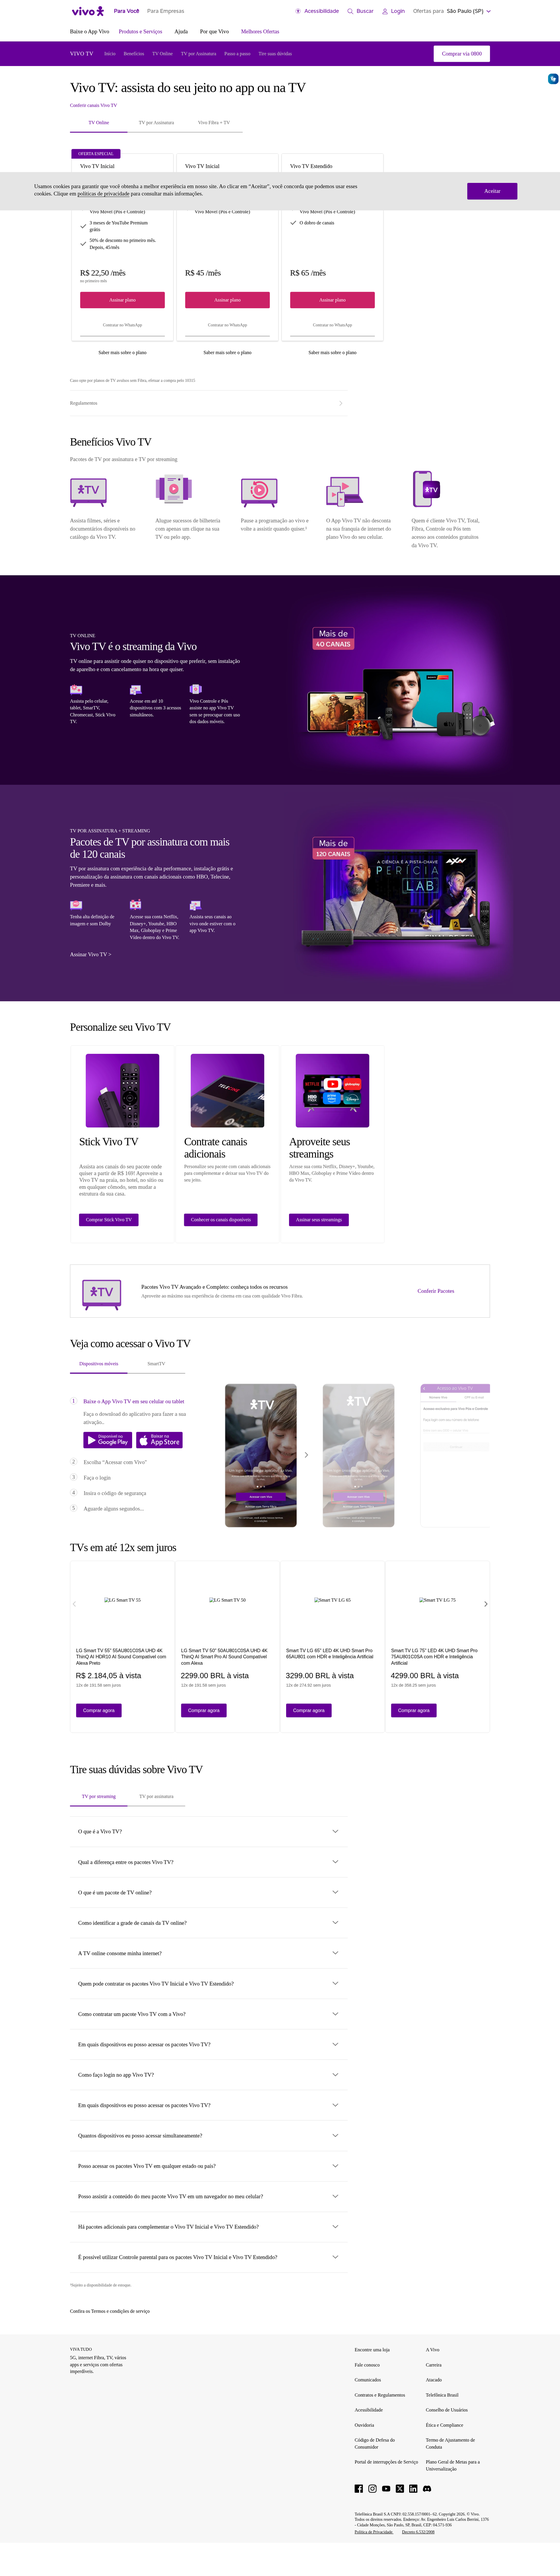
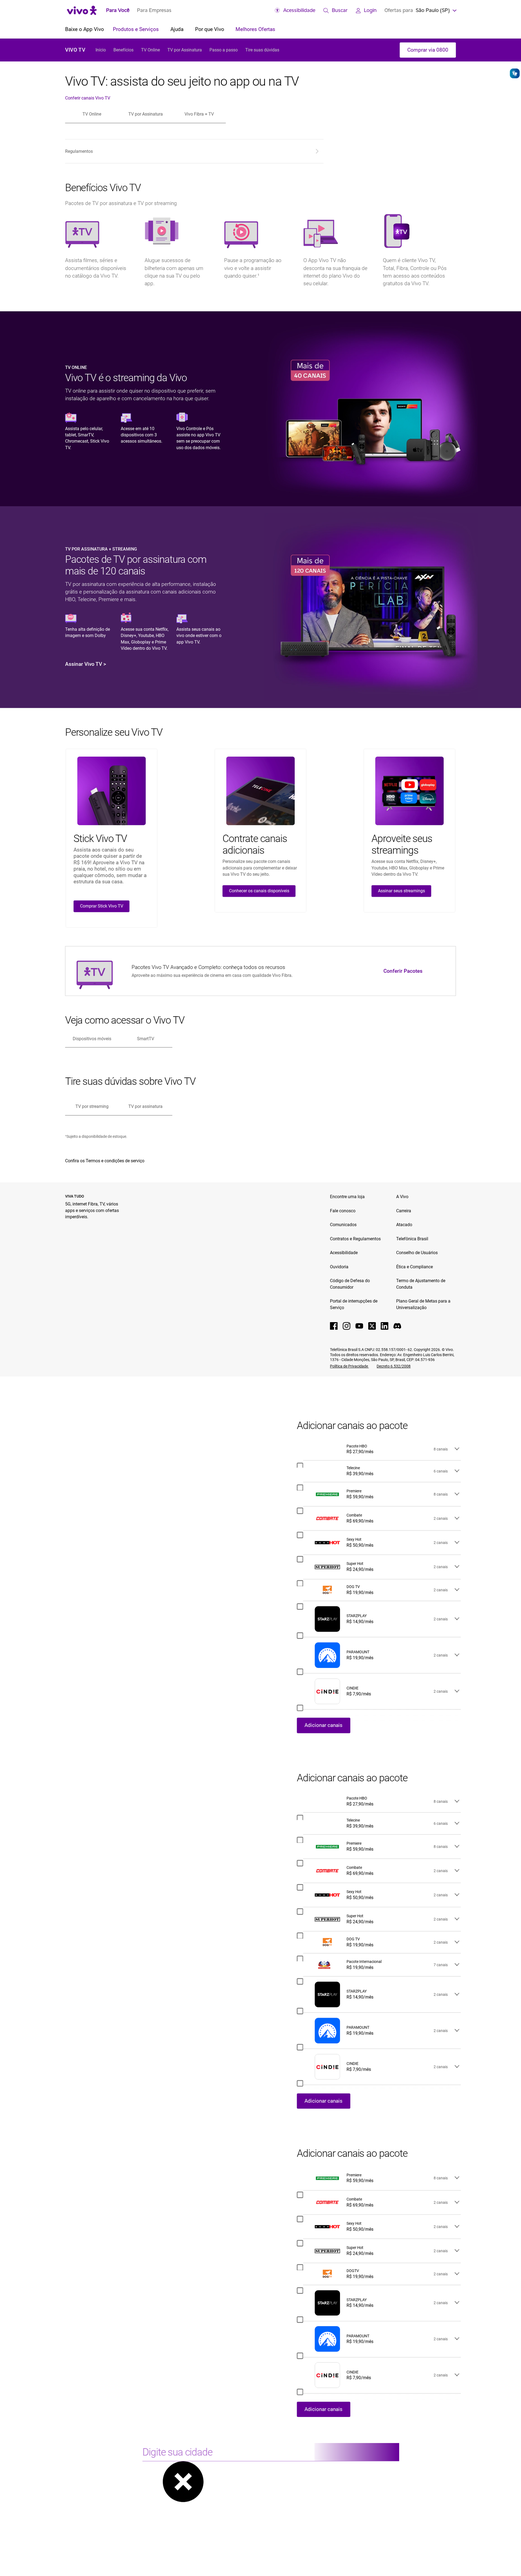
fix: aumentar wait time para 2s apos scroll (Vivo TV lazy-loading lento)

diff --git a/src/price_watchdog/scraper/scraper.py b/src/price_watchdog/scraper/scraper.py
@@ -150,7 +150,7 @@ class PriceScraper:
 
             # 4. Voltar ao topo e capturar full_page screenshot
             await page.evaluate("window.scrollTo(0, 0)")
-            await page.wait_for_timeout(500)
+            await page.wait_for_timeout(2000)  # Esperar conteúdo estabilizar
 
             screenshot_bytes = await page.screenshot(
                 full_page=True,
@@ -332,7 +332,7 @@ class PriceScraper:
 
             # 4. Voltar ao topo
             await page.evaluate("window.scrollTo(0, 0)")
-            await page.wait_for_timeout(500)
+            await page.wait_for_timeout(2000)  # Esperar conteúdo estabilizar
 
             # 5. Usar AIExtractor.extract_all
             extractor = AIExtractor()
